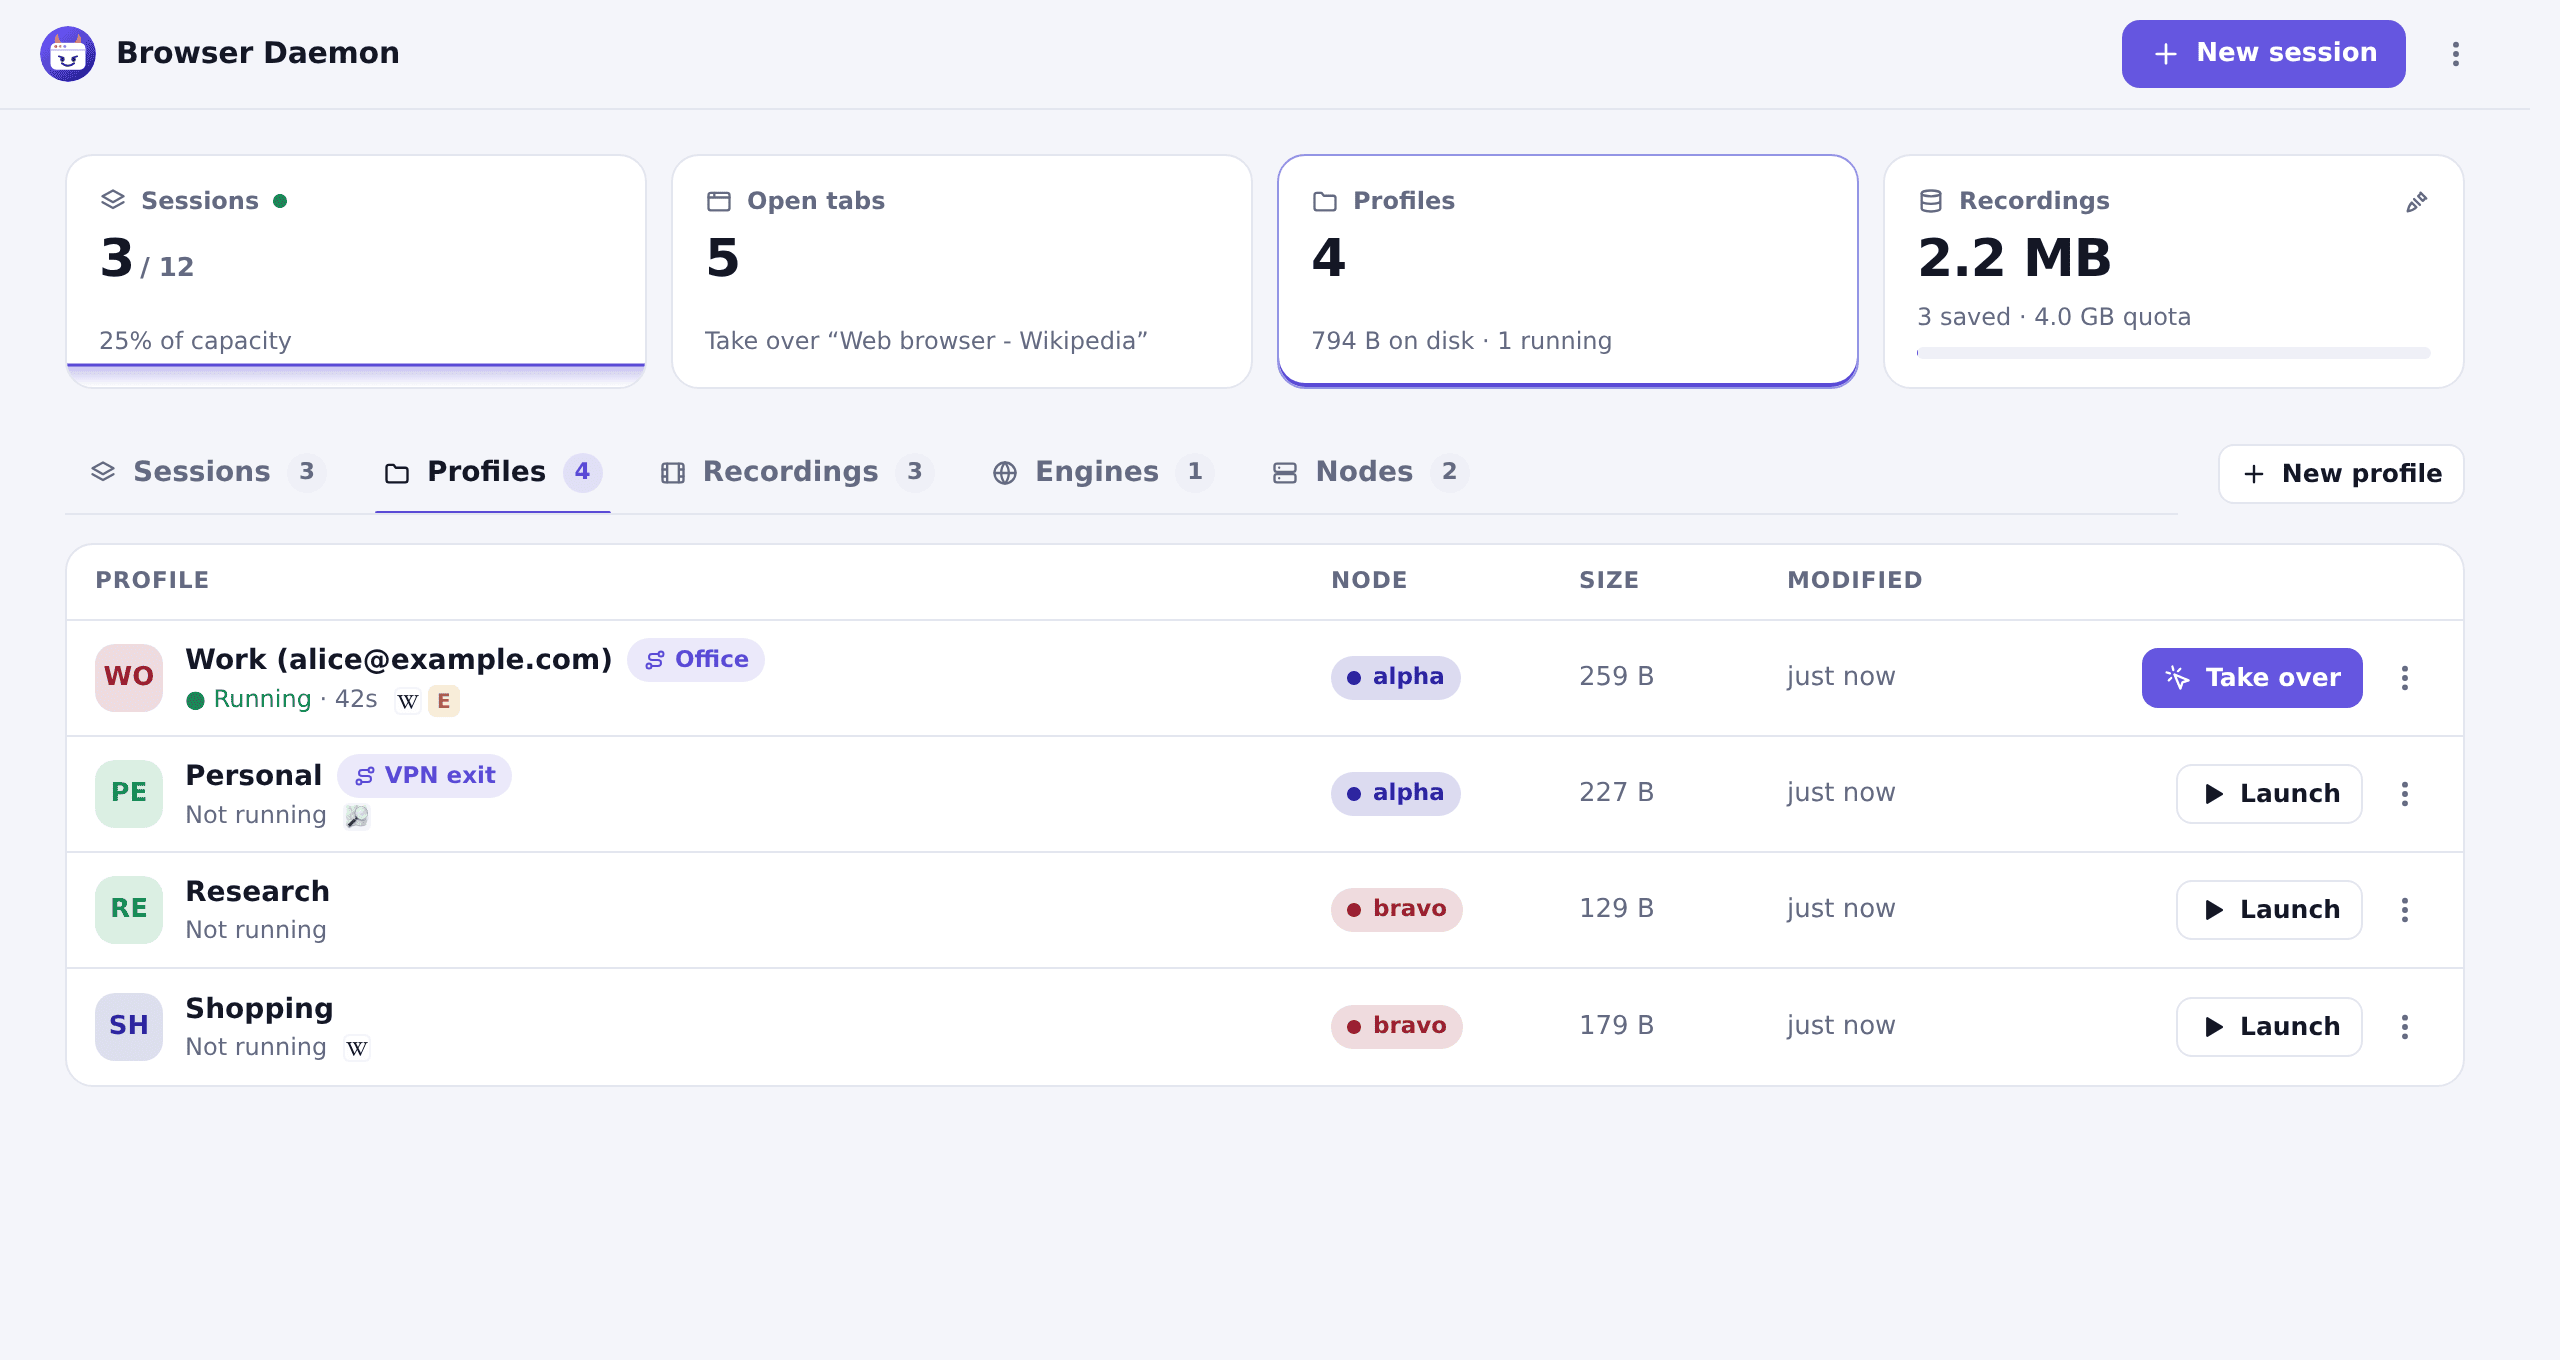
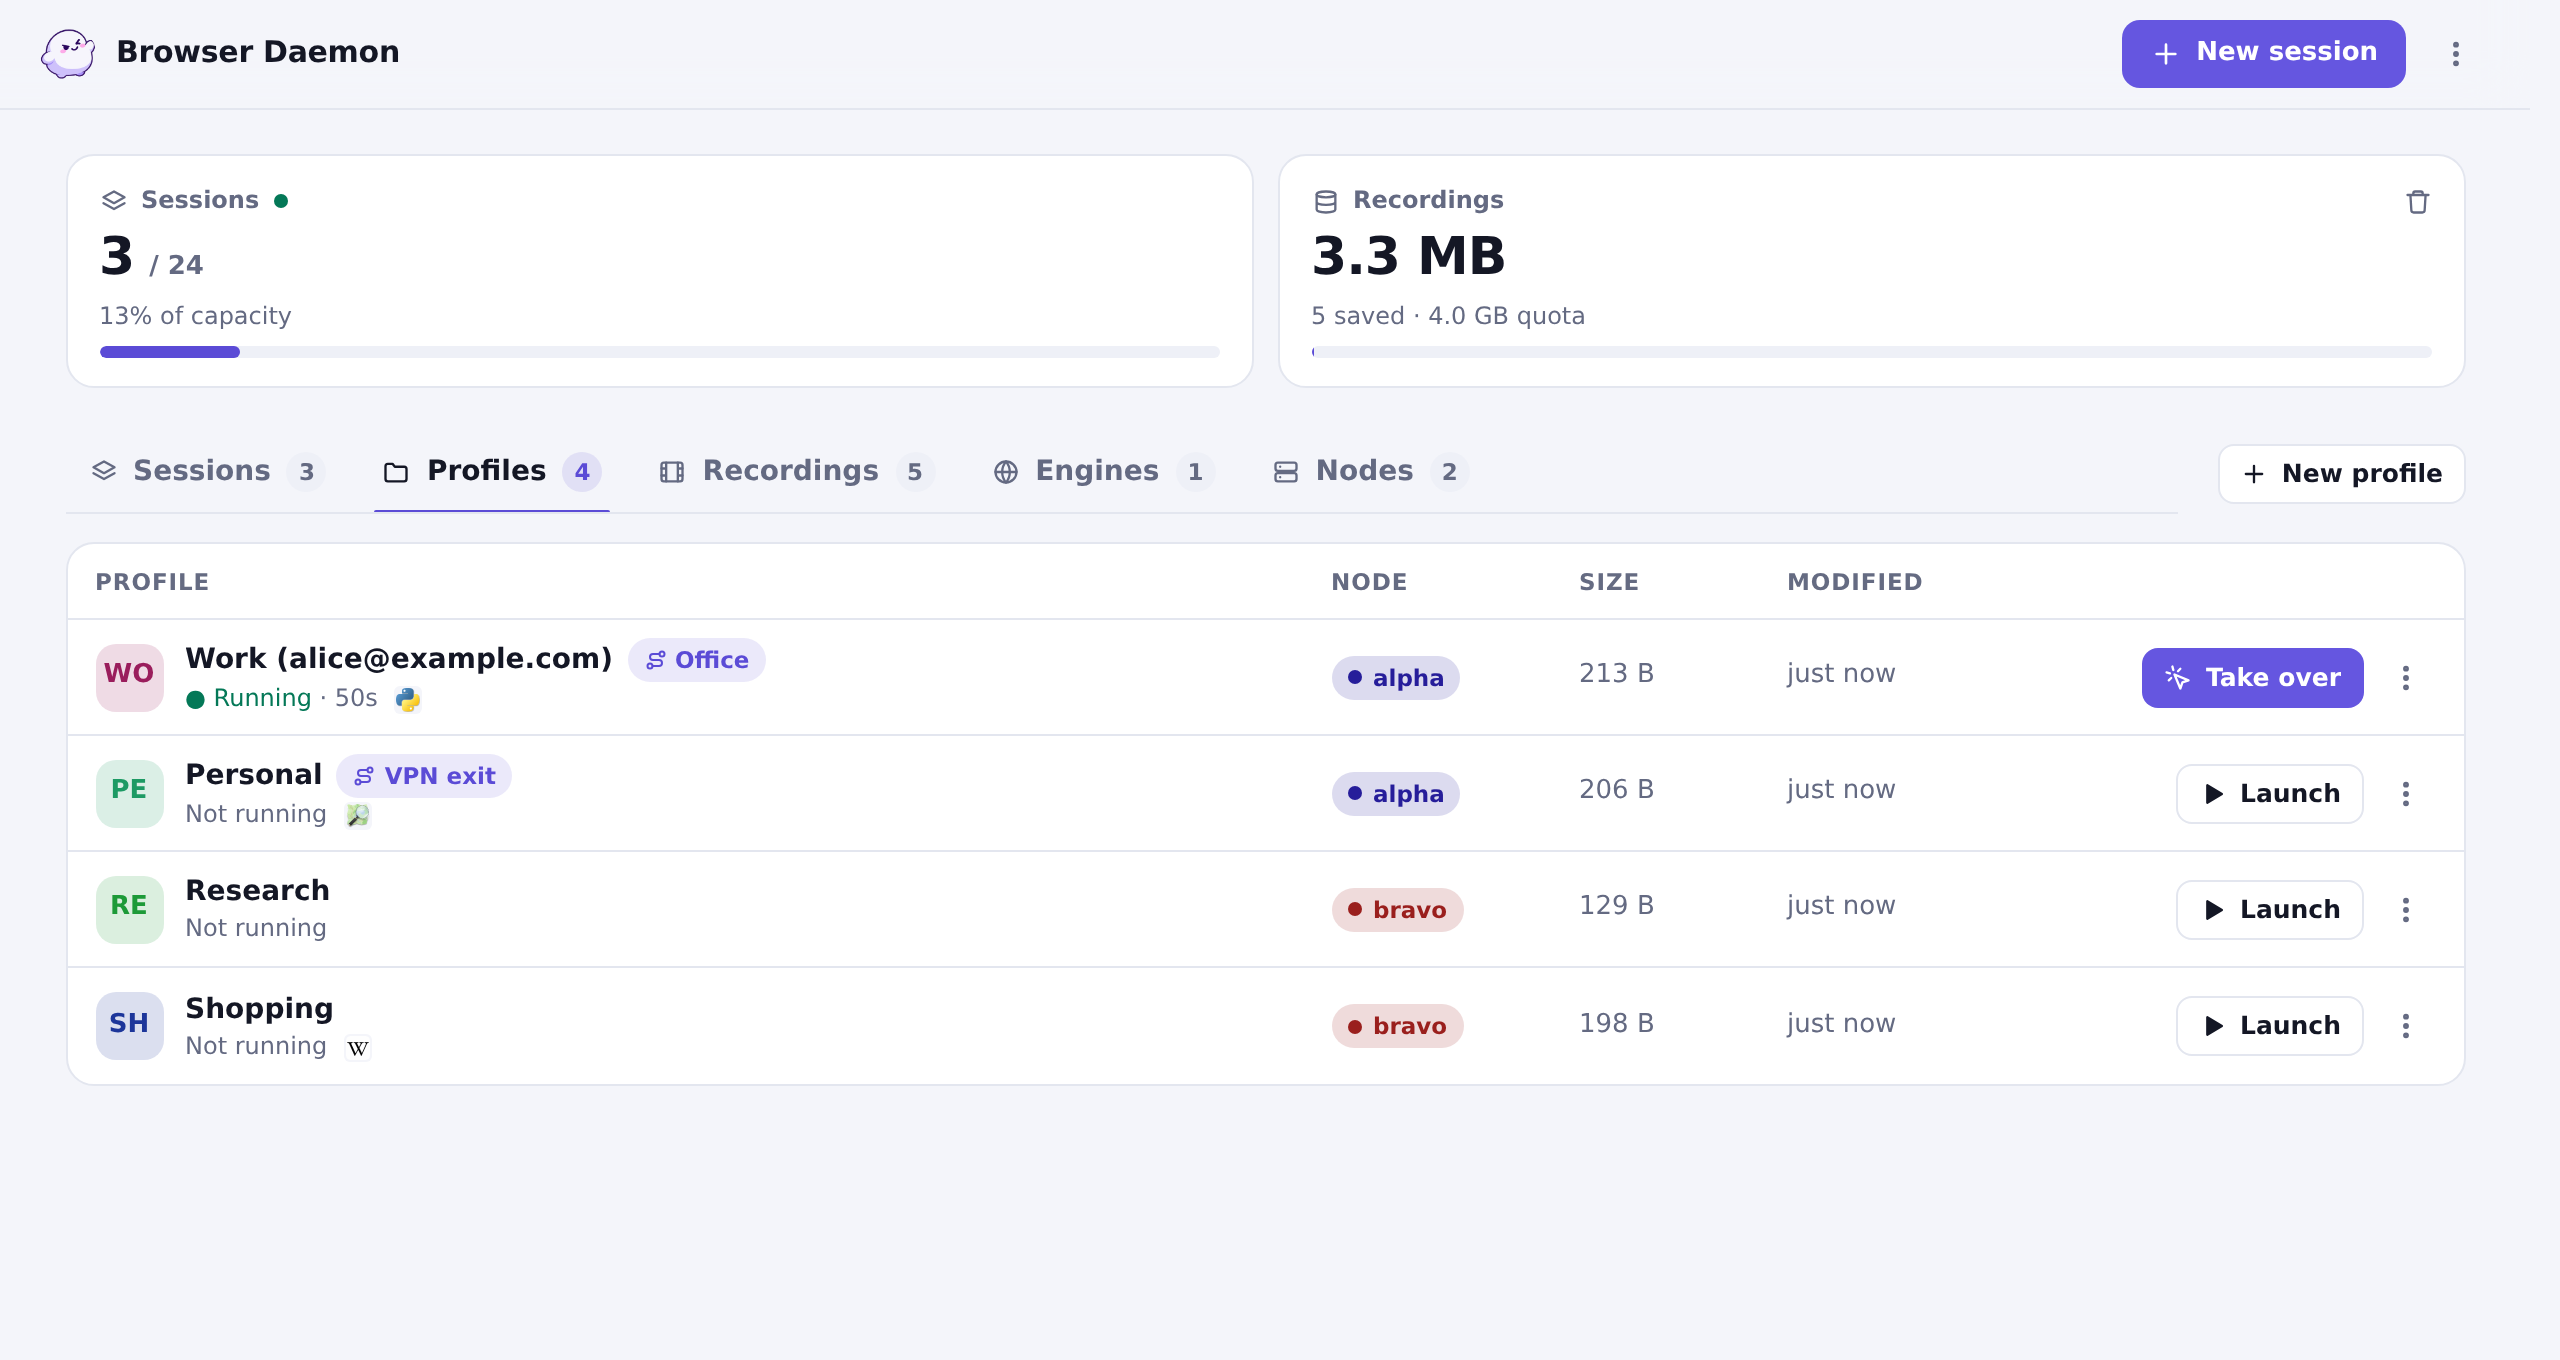
docs: current screenshots, light and dark, from a demo mesh
tools/screenshots/run.sh starts two throwaway nodes with made-up profiles and
sessions on public pages, and takes the dashboard pictures at 2x; the README
and the profiles doc pick light or dark with <picture>.

diff --git a/docs/profiles.md b/docs/profiles.md
@@ -18,4 +18,7 @@ Route a session through a SOCKS or HTTP proxy configured on its node (`services.
 
 sessions, profiles and recordings take notes (short texts with their time, in Markdown: emphasis, code, links, lists and task boxes, quotes; rendered without HTML, links only to http(s) and mailto): the dashboard's menus (**Notes…**) and the note badges on cards and rows, the live view's session menu, `browser-daemon session|profile|recording note TARGET [TEXT|-]` (without TEXT: list), `GET|POST /api/notes/<sessions|profiles|recordings>/<id>`, `PUT|DELETE /api/notes/<kind>/<id>/<note>`. A profile's notes live in its directory (`bd-notes.json`: they move, back up and export with it, and clearing its data keeps them), a recording's in its directory, a session's in the state directory until the session ends. The overview carries each item's count and latest note, and the search fields find notes.
 
-![Profiles with free-text names and per-profile proxies](../dashboard-profiles.png)
+<picture>
+  <source media="(prefers-color-scheme: dark)" srcset="../dashboard-profiles-dark.png">
+  <img src="../dashboard-profiles.png" alt="Profiles with free-text names and per-profile proxies">
+</picture>

diff --git a/AGENTS.md b/AGENTS.md
@@ -22,6 +22,13 @@ with `Cargo.toml`), and the signed `vX.Y.Z` tag triggers
 the `python` job of the release workflow (trusted publishing, after the
 release exists). Never version or tag it on its own.
 
+## Screenshots
+
+The README and docs pictures (`dashboard*.png`, light and dark) come from a
+throwaway demo mesh with made-up data, never from a real one, so nothing private
+can end up in them: `tools/screenshots/run.sh` (see its header) starts two
+nodes, seeds them and takes all four. Rerun it after a dashboard redesign.
+
 ## Code shared with rbw
 
 rbw's browser extension and this repository share two self-contained files,

diff --git a/README.md b/README.md
@@ -13,7 +13,10 @@
   A fast, lightweight, native remote browser daemon written in Rust for CDP automation, AI agents, Firefox WebDriver BiDi, screencasting, and interactive browser handoff across a peer-to-peer cluster mesh.
 </p>
 
-![Dashboard: running sessions across two nodes, with their tabs](dashboard.png)
+<picture>
+  <source media="(prefers-color-scheme: dark)" srcset="dashboard-dark.png">
+  <img src="dashboard.png" alt="Dashboard: running sessions across two nodes, with their tabs">
+</picture>
 
 ## Features
 
